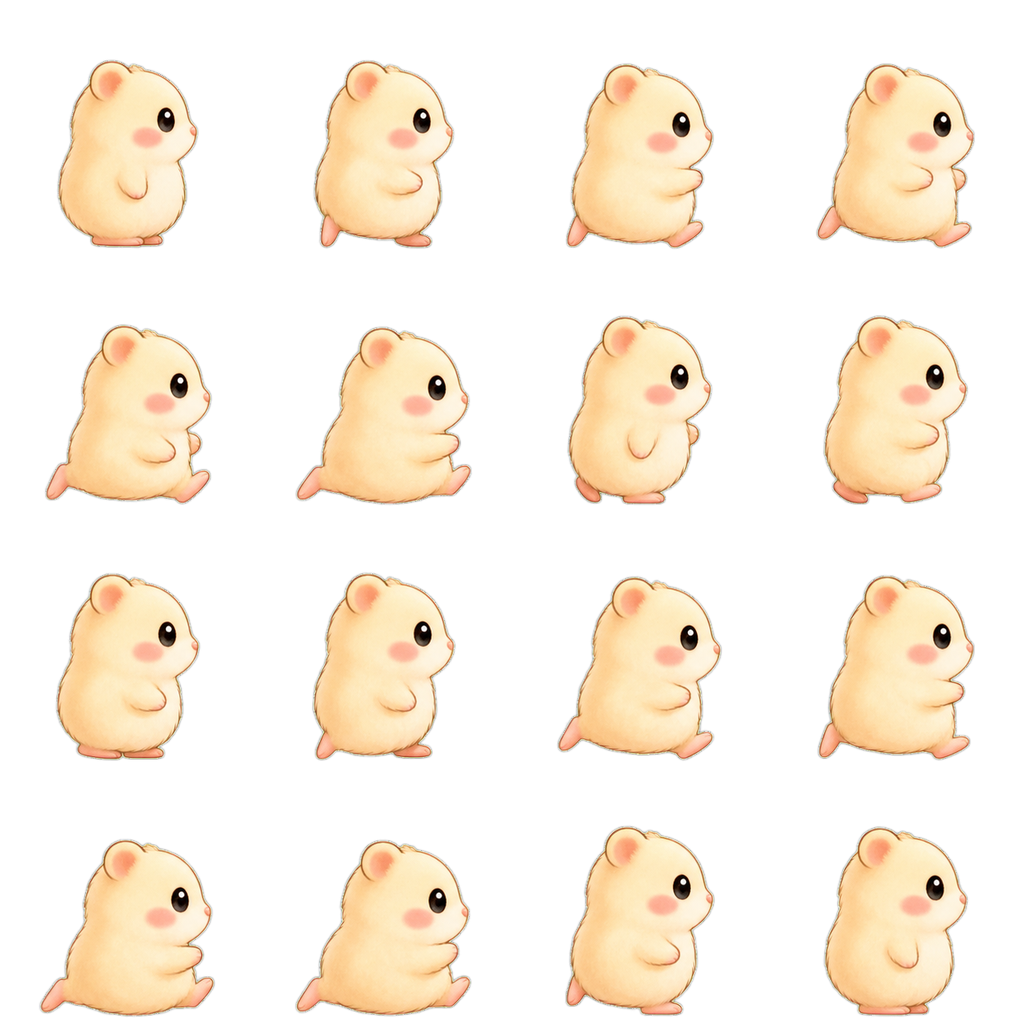
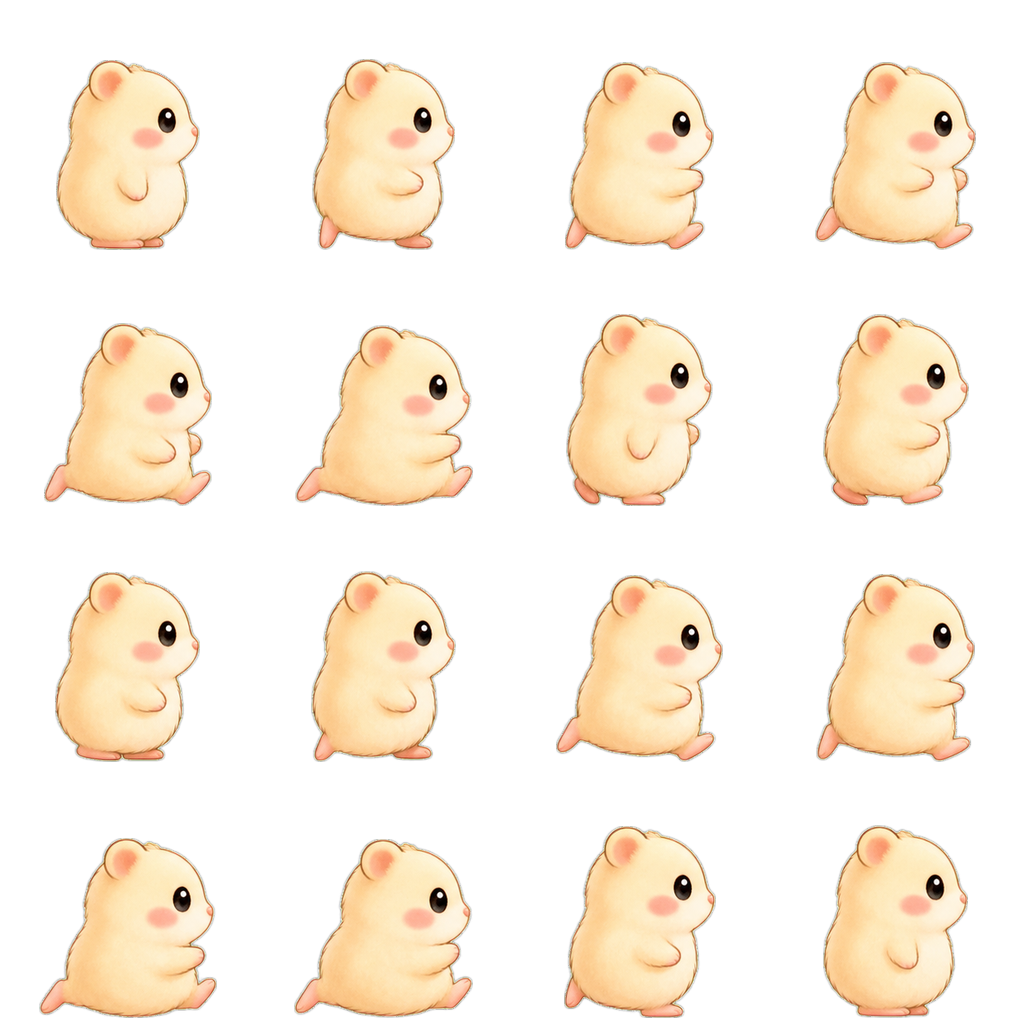
fix(coop-adventure): 달리기 위로 튐 제거 + 상승/하강 기울기 구분
달리기 틱틱/위로 튐: 슬라이서가 셀 상단 잔여점(speck)에 bbox가 부풀고 키 큰 콘텐츠가 위로 클램프돼 일부 프레임(예 chick frame12)이 baseline에서 벗어남(bot 194 vs 247) → 한 사이클에 한 번 위로 튐.
- _align_slice.py: robust bbox(행/열 불투명<4px 무시) + place_bottom 높이 초과 시 축소(위 클램프 방지). 5종 전부 재처리 → 전 프레임 발 baseline 통일(249).
- 상승/하강 구분: 공중 단일 프레임 유지하되 속도 기반 tilt(회전) 추가 — 상승=뒤로 젖힘(-), 하강=앞으로 다이브(+), 착지 0 복귀. 연속이라 정점 snap 없음. facing 좌향 시 부호 반전.
계측: chick 전프레임 bottom=249, 상승 rot평균 -0.10/하강 +0.09(distinct), 지상 0, 에러0.

diff --git a/games/coop-adventure/src/scenes/play.js b/games/coop-adventure/src/scenes/play.js
@@ -500,6 +500,13 @@ var PlayScene = new Phaser.Class({
     spr.x = this.player.x;
     spr.y = this.player.y + this._footY;
     spr.setFlipX(this.facing < 0);
+    // 공중 상승/하강 구분: 속도 기반 기울기(연속 → 정점에서 끊김 없음). 상승=뒤로 젖힘, 하강=앞으로 다이브.
+    var targetRot = 0;
+    if (!grounded) {
+      var lean = Phaser.Math.Clamp(b.velocity.y * 0.0007, -0.16, 0.30);
+      targetRot = (this.facing < 0) ? -lean : lean; // 좌향이면 시각적으로 같은 방향 되도록 부호 반전
+    }
+    spr.rotation += (targetRot - spr.rotation) * 0.25; // 부드럽게 들어가고 착지 시 0으로 복귀
 
     // S8: 이모트 말풍선이 캐릭터를 따라다님
     this.emoteBubble.x = this.player.x;

diff --git a/games/coop-adventure/assets/_align_slice.py b/games/coop-adventure/assets/_align_slice.py
@@ -10,6 +10,7 @@
 """
 import sys, os, subprocess, tempfile
 from PIL import Image
+import numpy as np
 
 SCRIPT = os.path.expanduser('~/.codex/skills/.system/imagegen/scripts/remove_chroma_key.py')
 
@@ -20,9 +21,14 @@ def dechroma(inp, key):
                    check=True, capture_output=True)
     return Image.open(tmp).convert('RGBA')
 
-def trim(cell):
-    bb = cell.getchannel('A').getbbox()
-    return cell.crop(bb) if bb else cell
+def trim(cell, minpx=4):
+    # robust bbox: 행/열별 불투명 픽셀이 minpx 미만이면 잔여 점(speck)으로 보고 무시
+    a = np.array(cell.getchannel('A')) > 40
+    rows = a.sum(axis=1); cols = a.sum(axis=0)
+    ys = np.where(rows >= minpx)[0]; xs = np.where(cols >= minpx)[0]
+    if len(ys) == 0 or len(xs) == 0:
+        bb = cell.getchannel('A').getbbox(); return cell.crop(bb) if bb else cell
+    return cell.crop((int(xs[0]), int(ys[0]), int(xs[-1]) + 1, int(ys[-1]) + 1))
 
 def scale_by(img, s):
     w, h = img.size
@@ -31,8 +37,11 @@ def scale_by(img, s):
 def place_bottom(content, frame, bottom_margin=6):
     canvas = Image.new('RGBA', (frame, frame), (0, 0, 0, 0))
     cw, ch = content.size
-    if cw > frame:
-        content = scale_by(content, frame / cw); cw, ch = content.size
+    # 폭/높이 어느 쪽이든 프레임을 넘으면 비율 유지 축소(넘쳐서 위로 클램프되는 버그 방지)
+    maxw = frame; maxh = frame - bottom_margin
+    sc = min(1.0, maxw / cw, maxh / ch)
+    if sc < 1.0:
+        content = scale_by(content, sc); cw, ch = content.size
     x = (frame - cw) // 2
     y = frame - bottom_margin - ch
     canvas.alpha_composite(content, (x, max(0, y)))
